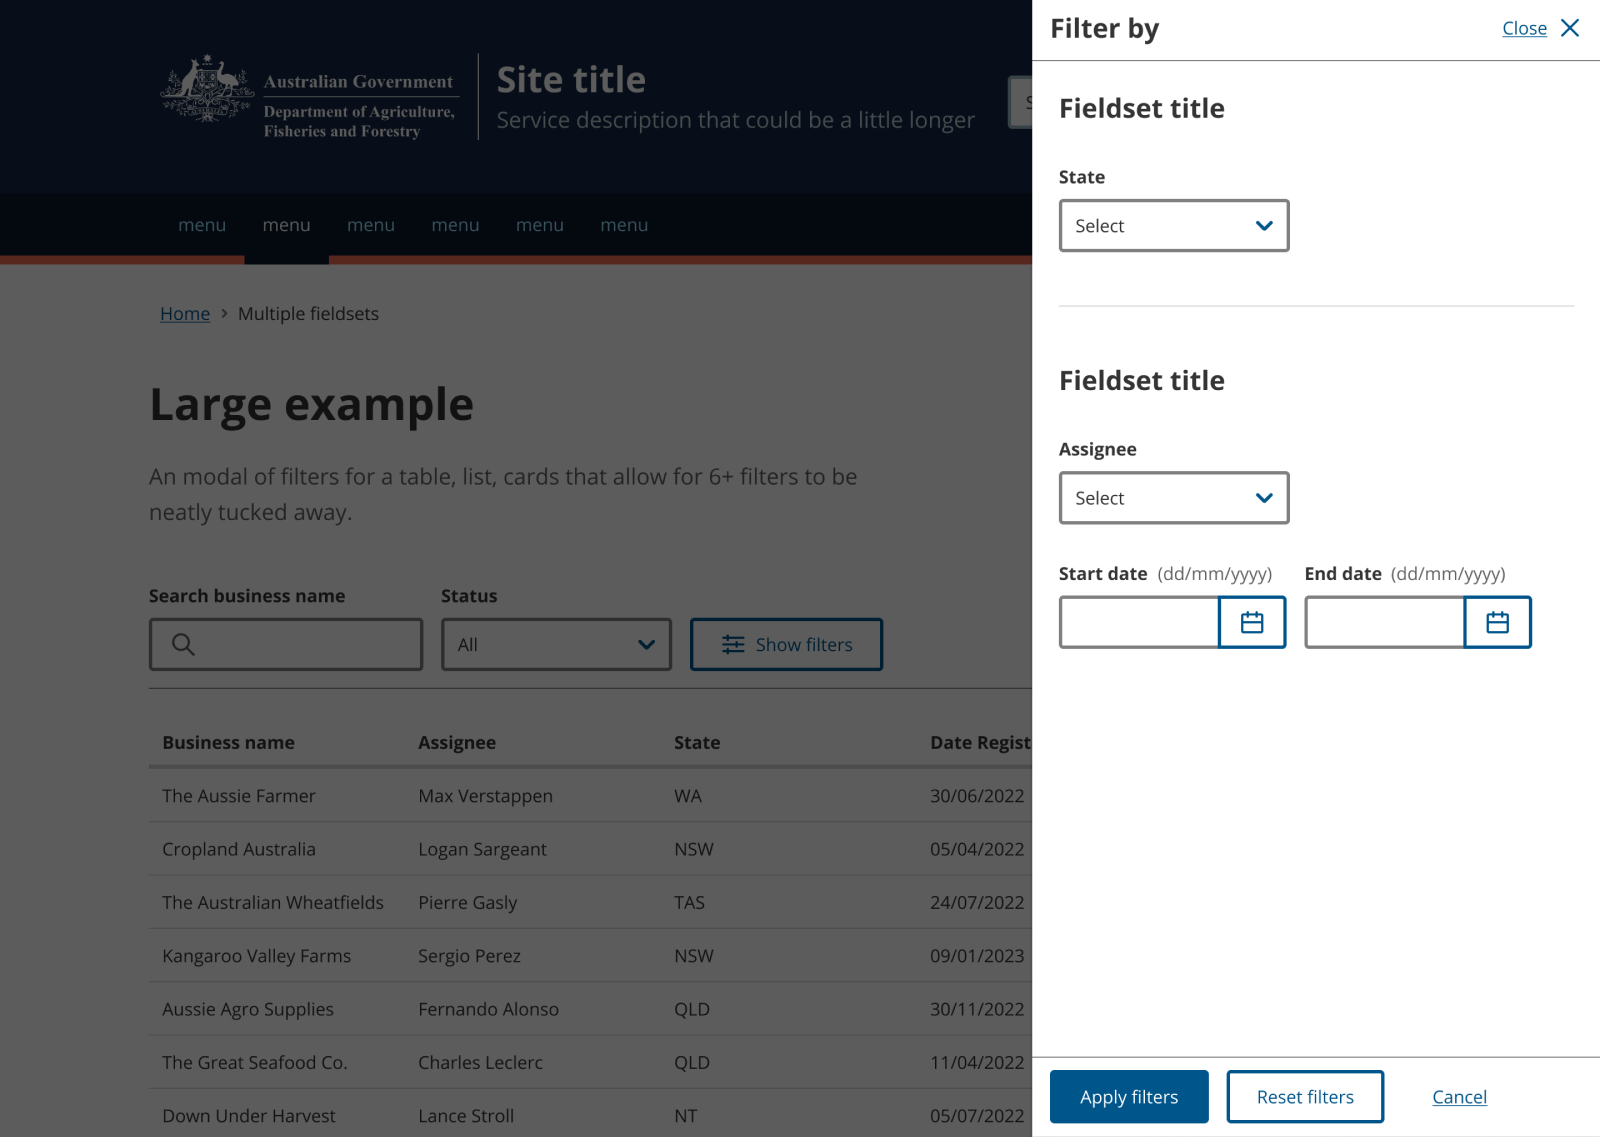
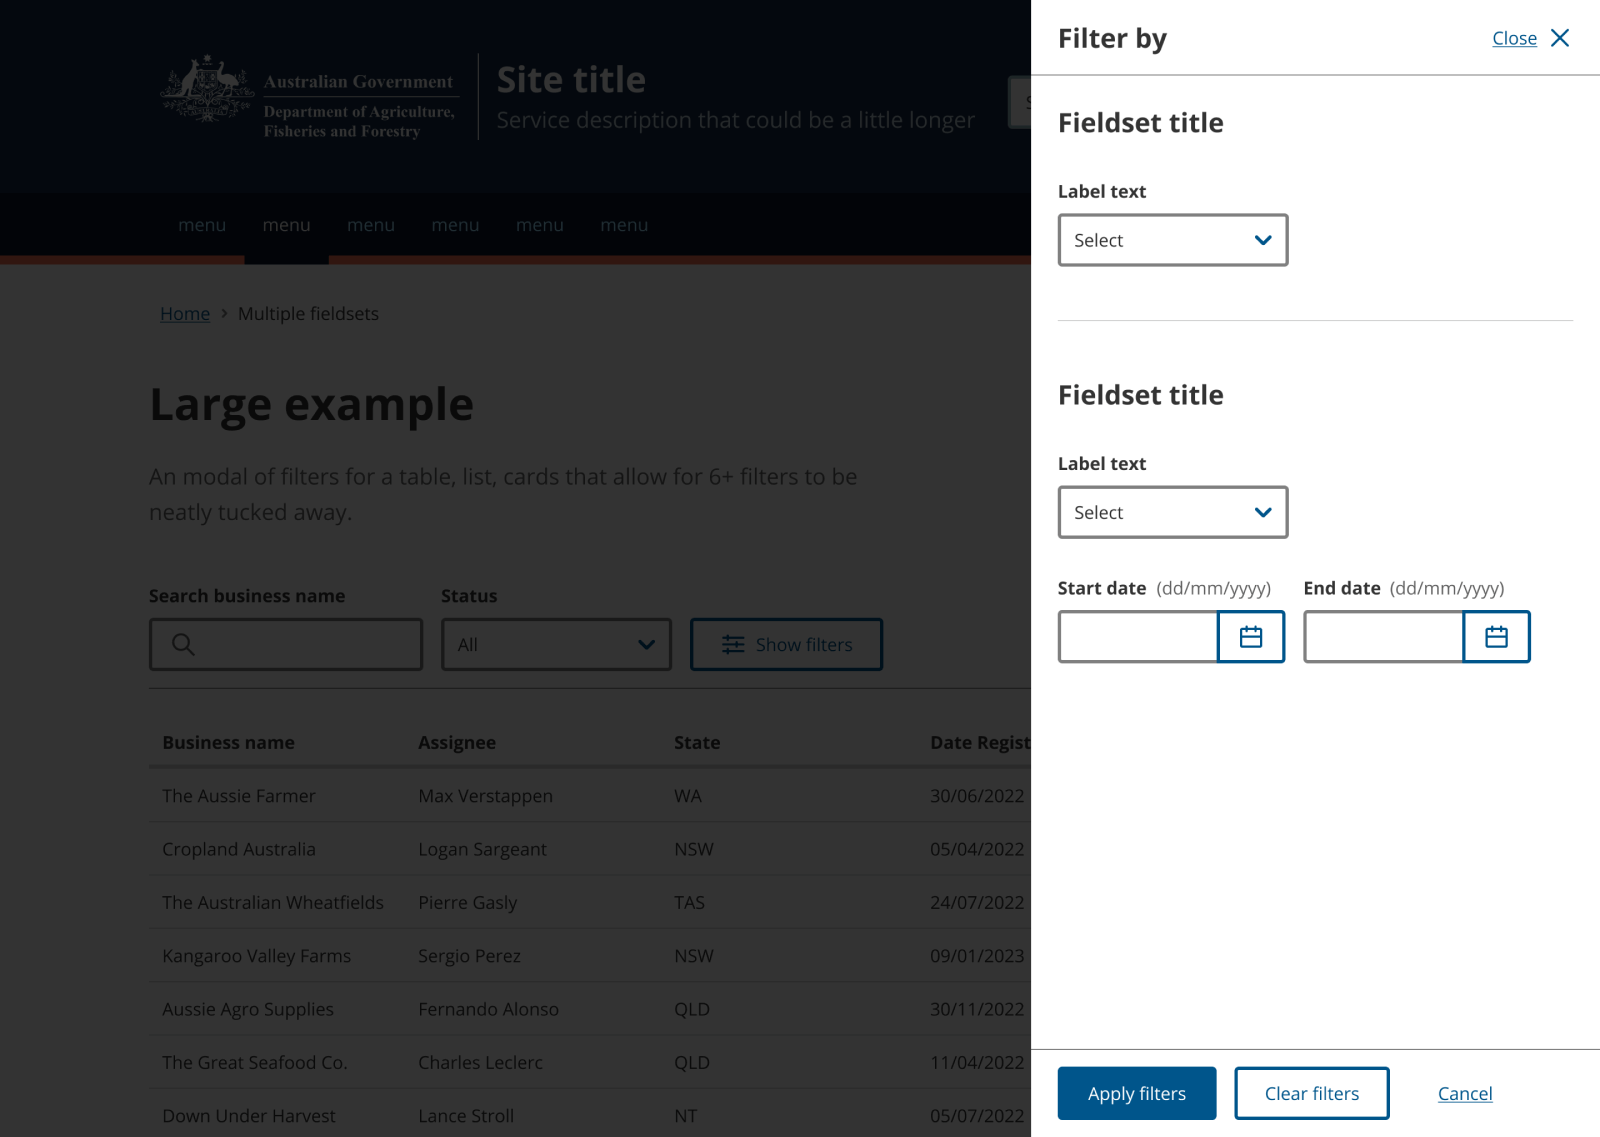
filter-drawer: Rename "Reset filters" to "Clear filters" (#1215)

diff --git a/packages/react/src/filter-drawer/FilterDrawer.stories.tsx b/packages/react/src/filter-drawer/FilterDrawer.stories.tsx
@@ -43,7 +43,7 @@ export const Basic: Story = {
 						<ButtonGroup>
 							<Button onClick={close}>Apply filters</Button>
 							<Button variant="secondary" onClick={close}>
-								Reset filters
+								Clear filters
 							</Button>
 							<Button variant="tertiary" onClick={close}>
 								Cancel
@@ -100,7 +100,7 @@ export const WithFieldsets: Story = {
 			closeDrawer();
 		};
 
-		const onResetFiltersClick = () => {
+		const onClearFiltersClick = () => {
 			setFormState(initialFilterState);
 			setFilters(initialFilterState);
 		};
@@ -120,8 +120,8 @@ export const WithFieldsets: Story = {
 					actions={
 						<ButtonGroup>
 							<Button onClick={onApplyFiltersClick}>Apply filters</Button>
-							<Button variant="secondary" onClick={onResetFiltersClick}>
-								Reset filters
+							<Button variant="secondary" onClick={onClearFiltersClick}>
+								Clear filters
 							</Button>
 							<Button variant="tertiary" onClick={onCloseClick}>
 								Cancel

diff --git a/.storybook/stories/DataFiltering/components/DashboardFilterDrawer.tsx b/.storybook/stories/DataFiltering/components/DashboardFilterDrawer.tsx
@@ -33,7 +33,7 @@ export const DashboardFilterDrawer = ({
 		closeDrawer();
 	};
 
-	const onResetFiltersClick = () => {
+	const onClearFiltersClick = () => {
 		resetFilters();
 		setFormState({
 			assignee: undefined,
@@ -57,8 +57,8 @@ export const DashboardFilterDrawer = ({
 			actions={
 				<ButtonGroup>
 					<Button onClick={onApplyFiltersClick}>Apply filters</Button>
-					<Button variant="secondary" onClick={onResetFiltersClick}>
-						Reset filters
+					<Button variant="secondary" onClick={onClearFiltersClick}>
+						Clear filters
 					</Button>
 					<Button variant="tertiary" onClick={onCloseClick}>
 						Cancel
